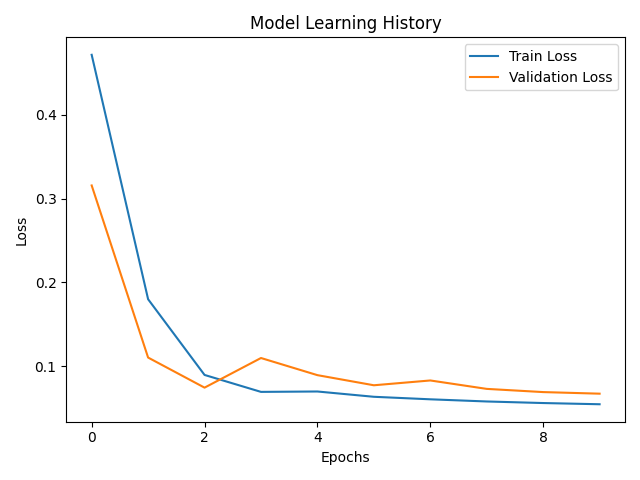
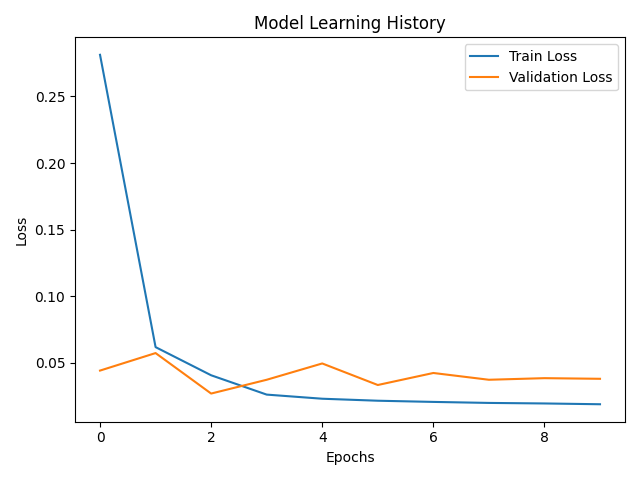
Update pytest command in GitHub workflow and modify train metrics

diff --git a/src/test_model/test_preditions.py b/src/test_model/test_preditions.py
@@ -11,7 +11,7 @@ from datetime import timedelta
 from sklearn.metrics import mean_absolute_error, mean_squared_error, explained_variance_score
 
 
-def test_predictions(station_name, station_data):
+def predictions_test(station_name, station_data):
     
 
     predictions_data = db.preditcions_today(station_name)
@@ -67,7 +67,7 @@ def main():
     mlflow.set_tracking_uri(settings.mlflow_tracking_uri)
     
     
-    for i in range(1,15):
+    for i in range(1,30):
         print("Testing model for station ", i, " ------------------------------------")  
 
         station_data = pd.read_csv(os.path.join(f"./data/processed/{i}/" f"station_{i}.csv"))
@@ -78,7 +78,7 @@ def main():
         station_data.reset_index(inplace=True)
         station_data = station_data.set_index(['date'])
 
-        test_predictions("station_"+str(i), station_data)
+        predictions_test("station_"+str(i), station_data)
 
         
 

diff --git a/tests/test_serve.py b/tests/test_serve.py
@@ -1,13 +1,15 @@
 import json
 import pytest
 from src.serve.serve import app  
+import src.serve.serve as serve    
 
 @pytest.fixture
 def client():
     with app.test_client() as client:
         yield client
 
-def test_predict_air(client):
+""" def test_predict_air(client):
+    serve.dowload_models()
     with open('tests/test_data.json', 'r') as file:
         data = json.load(file)
 
@@ -18,10 +20,11 @@ def test_predict_air(client):
     assert 'prediction' in response_data
     assert isinstance(response_data['prediction'], list)
     assert len(response_data['prediction']) == 1
-    assert 'prediction' in response_data
+    assert 'prediction' in response_data """
 
 
 def test_get_predictions(client):
+    serve.dowload_models()
     response = client.get('/predict/1')  # Assuming station 1 is being tested
     assert response.status_code == 200
 

diff --git a/src/models/evaluate_model.py b/src/models/evaluate_model.py
@@ -43,7 +43,6 @@ def evaluate_model(data_path, station_name,windowsize = 24):
     stands_scaler = mc.download_scaler(station_name, "stands_scaler", "staging")
     other_scaler = mc.download_scaler(station_name, "other_scaler", "staging")
 
-
     #dowload for produciton 
     prod_model = mc.download_model_onnx(station_name, "production")
     prod_stands_scaler = mc.download_scaler(station_name, "stands_scaler", "production")
